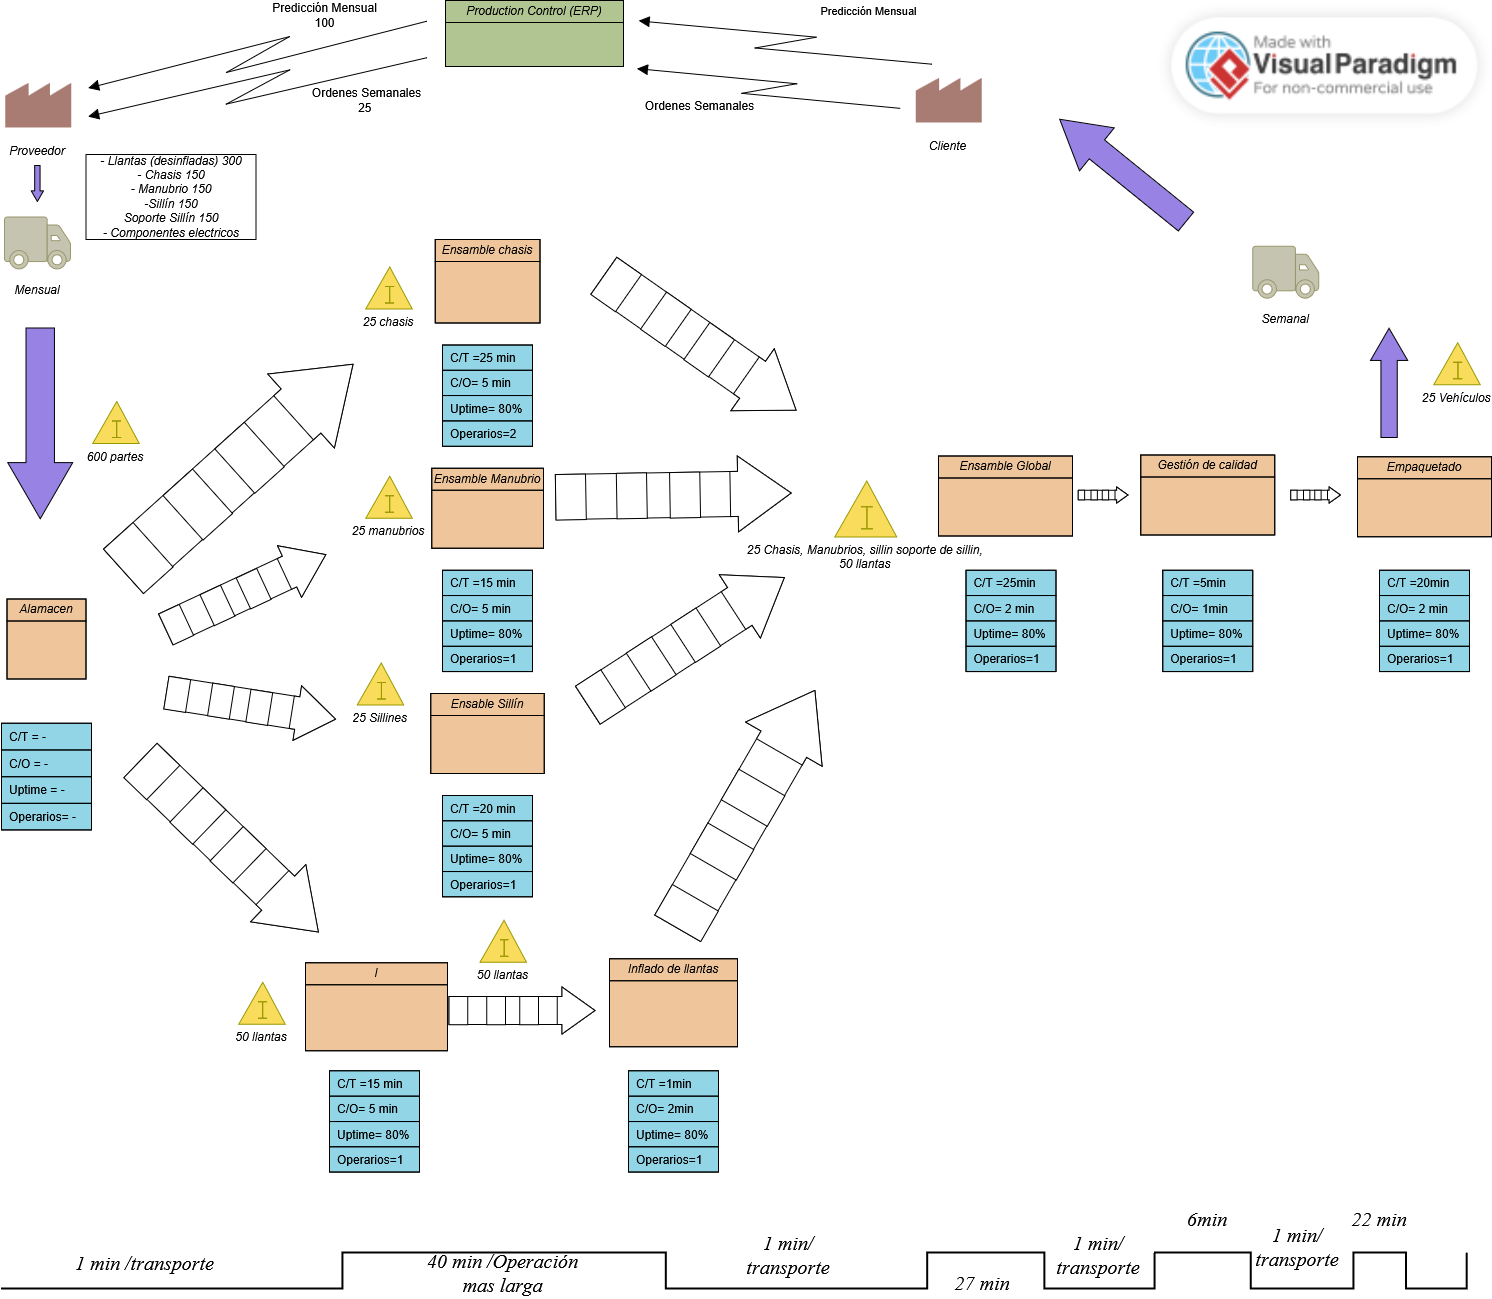
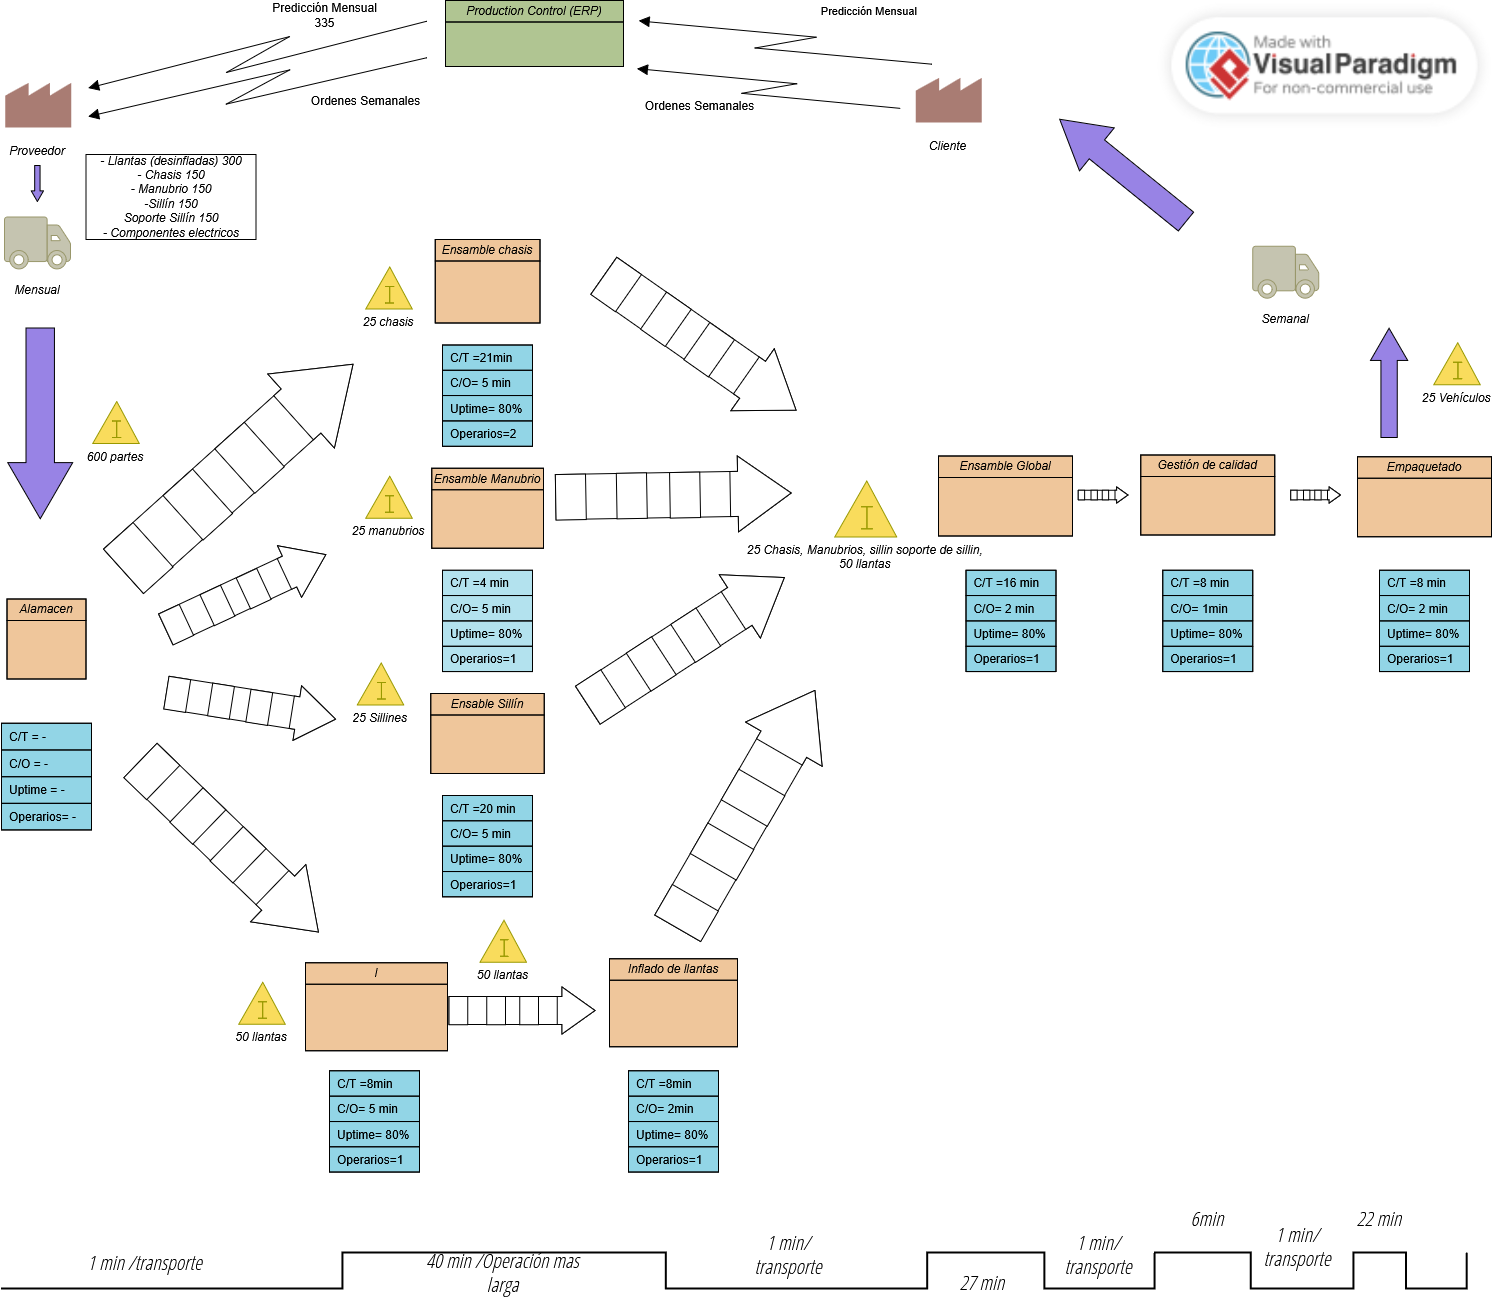
Actualización

diff --git a/README.md b/README.md
@@ -30,11 +30,11 @@
 
 <!-- TOC -->
 - [1. 📊 Estudio de Mercado](#1--estudio-de-mercado)
-  - [1.1. 💹 Tamaño y Crecimiento del Mercado](#11--tamaño-y-crecimiento-del-mercado)
-  - [1.2. 🎛 Estimación de volumen de producción para Mep Mep Riders](#12--estimación-de-volumen-de-producción-para-mep-mep-riders)
-- [2. 🛵 Productos Seleccionados](#2--productos-seleccionados)
-- [3. 🛂 VSM Antes de automatización](#3--vsm-antes-de-automatización)
-- [4. 🛂 VSM Despues de Automatización](#4--vsm-despues-de-automatización)
+  - [1.1. 📈 Tamaño y Crecimiento del Mercado](#11--tamaño-y-crecimiento-del-mercado)
+  - [1.2. 🏭 Estimación de Volumen de Producción](#12--estimación-de-volumen-de-producción)
+- [2. 🛵 Patientas Seleccionadass](#2--patientas-seleccionadass)
+- [3. 🛂 Antes de automatización](#3--antes-de-automatización)
+- [4. 🛂 Despues de Automatización](#4--despues-de-automatización)
 - [5. 🗃 Referencias](#5--referencias)
 
 
@@ -45,7 +45,7 @@
 
 El mercado de las patinetas eléctricas en Colombia ha experimentado un crecimiento notable en los últimos años, posicionándose como una alternativa clave en la movilidad sostenible. La aceptación de estos vehículos se debe principalmente a su rentabilidad en comparación con las motocicletas y su eficiencia para recorridos de distancias cortas a medias (10 a 45 kilómetros).
 
-## 1.1. 💹 Tamaño y Crecimiento del Mercado
+## 1.1. 📈 Tamaño y Crecimiento del Mercado
 
 
 - Volumen Anual: Se estima que el mercado colombiano de patinetas eléctricas tiene un tamaño anual aproximado de 35,000 a 40,000 unidades.
@@ -56,16 +56,47 @@ El mercado de las patinetas eléctricas en Colombia ha experimentado un crecimie
 
 - Factores Clave de Compra: Los consumidores valoran la autonomía de la batería, la velocidad, los materiales de construcción, el peso, el sistema de suspensión y el precio. Además, factores como la distancia a recorrer, las inclinaciones del terreno y el peso del usuario son determinantes al momento de la elección.
 
-## 1.2. 🎛 Estimación de volumen de producción para Mep Mep Riders
-El significativo crecimiento y el tamaño considerable del mercado colombiano de patinetas eléctricas ofrecen una ventana de oportunidad favorable para nuevas empresas como Mep Mep Riders.
-
-De acuerdo a lo investigado, se asume un volumen del mercado actual para 2025 de aproximademente 40,000 unidades anuales. 
-
-Mep Mep Riders espera alcanzar una participación en el mercado del 10%, ligeramente superior a las empresas actuales (aproximadamente 6,87% por empresa). Para ello, en el primer año se espera una participación del 5% con un crecimiento lineal del 1% anual durante 5 años.
 
 
+## 1.2. 🏭 Estimación de Volumen de Producción
 
-# 2. 🛵 Productos Seleccionados
+Con base en la información investigada, se estima que el mercado colombiano de patinetas eléctricas para el año 2025 alcanza un volumen aproximado de 35.000 unidades anuales. Este tamaño de mercado, junto con una proyección de crecimiento sostenido, representa una oportunidad estratégica para que las empresas ensambladoras inviertan en automatización como vía para escalar su capacidad productiva.
+
+Actualmente, una empresa promedio participa con aproximadamente 6,87% del mercado. Con la implementación del sistema de automatización propuesto por **Mep Mep Raiders**, se proyecta que **EMPRESA DE ENSAMBLAJE DE PATINETAS S.A.S.** incremente su producción de **1.400 unidades/año (4% del mercado)** a **4.020 unidades/año (9% del mercado)** en un plazo de **5 años**, con una **tasa de crecimiento anual en participación del 1%**.
+
+
+**Supuestos del Modelo:**
+
+* **Tamaño actual del mercado:** 35.000 unidades anuales
+* **Crecimiento del mercado:** 5% anual
+* **Crecimiento de participación de la empresa:** 1% anual
+* **Distribución esperada de ventas por modelo:**
+
+  * 500W: 50%
+  * 800W: 25%
+  * 2000W: 25%
+
+> Se asume que el modelo de **500W**, por su menor costo, tendrá la mayor demanda.
+
+---
+
+<details>
+<summary><strong>Tabla de proyecciones de ventas anuales y mensuales por modelo</strong></summary>
+
+| Año | Volumen del mercado | Participación proyectada | Ventas esperadas (anual) | Ventas esperadas (mensual) | 500W (anual) | 800W (anual) | 2000W (anual) | 500W (mensual) | 800W (mensual) | 2000W (mensual) |
+| --- | ------------------- | ------------------------ | ------------------------ | -------------------------- | ------------ | ------------ | ------------- | -------------- | -------------- | --------------- |
+| 1   | 36.750              | 5%                       | 1.838                    | 153                        | 919          | 460          | 460           | 77             | 38             | 38              |
+| 2   | 38.588              | 6%                       | 2.315                    | 193                        | 1.158        | 579          | 579           | 97             | 48             | 48              |
+| 3   | 40.517              | 7%                       | 2.836                    | 236                        | 1.418        | 709          | 709           | 118            | 59             | 59              |
+| 4   | 42.543              | 8%                       | 3.403                    | 284                        | 1.702        | 851          | 851           | 142            | 71             | 71              |
+| 5   | 44.670              | 9%                       | 4.020                    | 335                        | 2.010        | 1.005        | 1.005         | 168            | 84             | 84              |
+
+</details>
+
+
+<br> 
+
+# 2. 🛵 Patientas Seleccionadass
 
 <table border="1" style="width:100%; border-collapse: collapse; margin-bottom: 30px;">
     <thead>
@@ -76,7 +107,7 @@ Mep Mep Riders espera alcanzar una participación en el mercado del 10%, ligeram
     <tbody>
         <tr>
             <td style="padding: 10px; text-align: center; width:33%; vertical-align: top;">
-                <img <img width="388" height="414" alt="image" src="https://imgur.com/L0X39mr.png" />
+                <img <img width="388" height="200" alt="image" src="https://imgur.com/L0X39mr.png" />
                 <br>
                 <em>Figura 1: Patineta eléctrica 500W</em>
             </td>
@@ -221,21 +252,45 @@ Mep Mep Riders espera alcanzar una participación en el mercado del 10%, ligeram
 </table>
 
 
-# 3. 🛂 VSM Antes de automatización
-Los productos selccionados, actualmente se ensamblan uno depues de otro en una linea secuancial. Los modulos destacados son el ensamble del chasis, el ensamble del manurio, el ensamble del sillín y el ensamble de llantas. Estas ultimas vienen depresurizadas por los que deben inflarse. posetriormente esta el modulo de ensamble completo donde se unen todos lo ensambles ya mencionados, junto a elementos que no pertenecen a un ensamble como tal, como son las luces y algunos cables.
+# 3. 🛂 Antes de automatización
+Las patinetas actualmente se ensamblan uno depues de otro en una linea secuancial. Los modulos destacados son el ensamble del chasis, el ensamble del manubrio, el ensamble del sillín y el ensamble de llantas. Estas ultimas vienen depresurizadas por los que deben inflarse. posetriormente esta el modulo de ensamble completo donde se unen todos lo ensambles ya mencionados, junto a elementos que no pertenecen a un ensamble como tal, como son las luces y algunos cables.
 ![VSM Antes de automatización](Figs/VSM/VSM-Antes.png)
 
 Esta planta se veria de esta manera.
 
-![Technomatix Planta](Figs/Technomatix/Prev/PlantaPrev.png)
+![Technomatix Planta](Figs/Technomatix/Prev/PlantaPrev.jpg)
+
+![Simulación Antes](Figs/Technomatix/Prev/Statistics-Antes.jpg)
 
 
-# 4. 🛂 VSM Despues de Automatización
+| *KPI*                | *Descripción*                                                       | *Valor*           |
+| ---------------------- | --------------------------------------------------------------------- | ------------------- |
+| *Takt Time*          | Tiempo requerido para cumplir la demanda (min/unidad)                 | 82.05 min/patineta  |
+| *Tiempo de ciclo*    | Tiempo real de producción por unidad                                  | 135 min/patineta    |
+| *Tasa de producción* | Unidades producidas por hora                                          | 0.44 patinetas/hora |
+| *Disponibilidad (A)* | Porcentaje del tiempo disponible en que las máquinas están operativas | 80 %                |
+| *Eficiencia (E)*     | Relación entre el tiempo ideal y el real (Takt / Ciclo)               | 61 %                |
+| *Calidad (Q)*        | Porcentaje de unidades sin defectos                                   | 95 %                |
+| *OEE*                | Efectividad total del equipo (A × E × Q)                              | 46 %                |
+
+# 4. 🛂 Despues de Automatización
 Nosotros proponemos automatizar el transporte de los elementos por medio de cintas transporatadoras. Tambien se propone automatizar el suproceso de inserción del sillín con el soporte del chasis. FInalmente usar una celda robotica para el llenaod de aire de las llantas.
 Nosotros proponemos entonces una planta paralelizada. con un VSM como el que se muestra a continuación.
 ![VSM Antes de automatización](Figs/VSM/VSM-Despues.png)
 Que se veria de esta forma
-![Technomatix Planta](Figs/Technomatix/Post/PlantaPost.png)
+![Technomatix Planta](Figs/Technomatix/Post/PlantaPost.jpg)
+
+![Simulación Antes](Figs/Technomatix/Post/Statistics-Despues.jpg)
+
+| *KPI*                | *Descripción*                                                       | *Valor*           |
+| ---------------------- | --------------------------------------------------------------------- | ------------------- |
+| *Takt Time*          | Tiempo requerido para cumplir la demanda (min/unidad)                 | 28.57 min/patineta  |
+| *Tiempo de ciclo*    | Tiempo real de producción por unidad                                  | 34.07 min/patineta  |
+| *Tasa de producción* | Unidades producidas por hora                                          | 1.76 patinetas/hora |
+| *Disponibilidad (A)* | Porcentaje del tiempo disponible en que las máquinas están operativas | 80 %                |
+| *Eficiencia (E)*     | Relación entre el tiempo ideal y el real (Takt / Ciclo)               | 84 %                |
+| *Calidad (Q)*        | Porcentaje de unidades sin defectos                                   | 95 %                |
+| *OEE*                | Efectividad total del equipo (A × E × Q)                              | 64 %                |
 
 # 5. 🗃 Referencias
 
